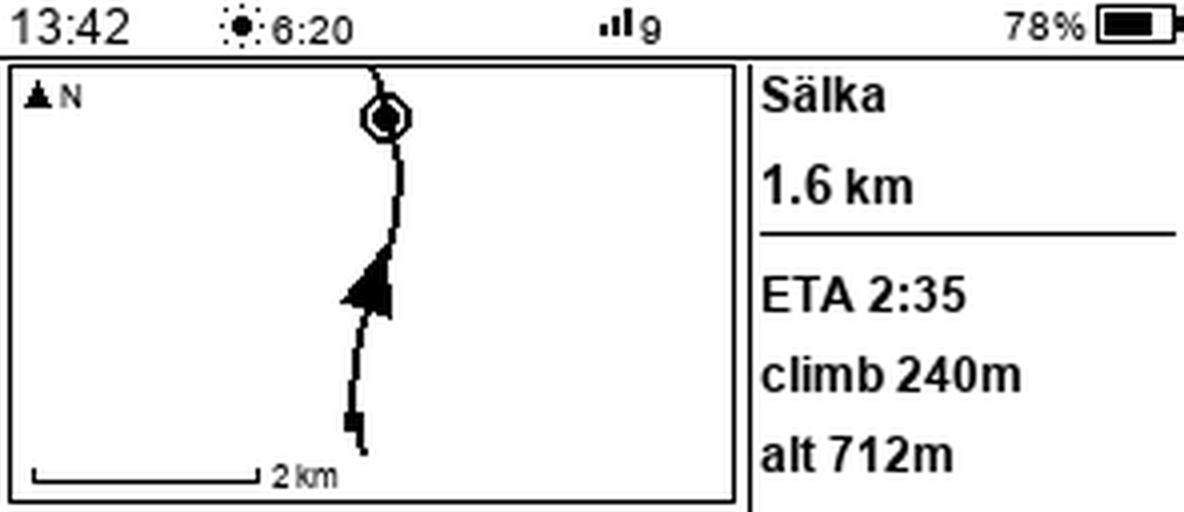
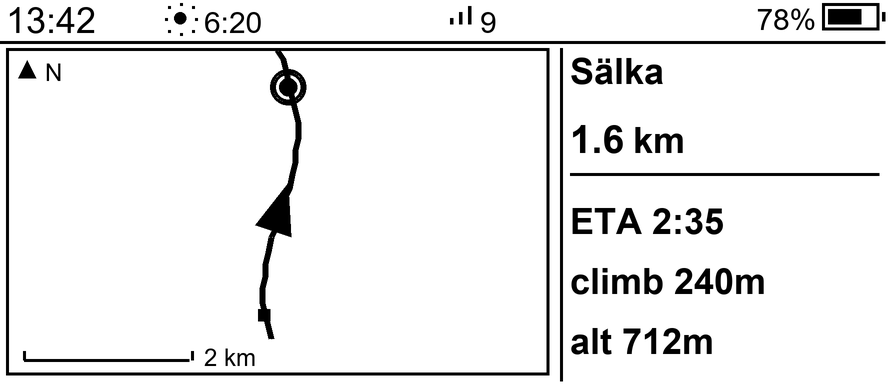
Supersample preview rendering for sharp text

Changed region(s): [[0.0, 0.0, 1.0, 1.0], [0.2736, 0.3125, 0.3649, 0.875], [0.3041, 0.875, 0.3345, 0.9062]]

diff --git a/tools/preview_display.py b/tools/preview_display.py
@@ -11,13 +11,13 @@ import os
 from PIL import Image, ImageDraw, ImageFont
 
 W, H = 296, 128
-SCALE = 4
+SS = 6        # supersample: render at SS x logical resolution, then save
 FD = r"C:\Windows\Fonts"
 BLACK, WHITE = 0, 255
 
 
 def font(name, size):
-    return ImageFont.truetype(os.path.join(FD, name), size)
+    return ImageFont.truetype(os.path.join(FD, name), size * SS)
 
 
 F_TINY = font("arial.ttf", 8)
@@ -29,45 +29,50 @@ F_HUGE = font("arialbd.ttf", 20)
 
 
 class Epd:
+    """Draws in logical 296x128 coordinates but rasterises at SS x resolution.
+    Every primitive scales its coordinates; strokes are SS px wide so a 1 px
+    logical line stays 1 logical px. width() reports logical units so the
+    layout math in the render_* functions needs no changes."""
+
     def __init__(self):
-        self.img = Image.new("L", (W, H), WHITE)
+        self.img = Image.new("L", (W * SS, H * SS), WHITE)
         self.d = ImageDraw.Draw(self.img)
 
     # --- GxEPD2-like primitives ---
     def line(self, x0, y0, x1, y1, c=BLACK):
-        self.d.line((x0, y0, x1, y1), fill=c)
+        self.d.line((x0 * SS, y0 * SS, x1 * SS, y1 * SS), fill=c, width=SS)
     def line2(self, x0, y0, x1, y1, c=BLACK):
-        self.d.line((x0, y0, x1, y1), fill=c)
+        self.line(x0, y0, x1, y1, c)
         if abs(x1 - x0) >= abs(y1 - y0):
-            self.d.line((x0, y0 + 1, x1, y1 + 1), fill=c)
+            self.line(x0, y0 + 1, x1, y1 + 1, c)
         else:
-            self.d.line((x0 + 1, y0, x1 + 1, y1), fill=c)
+            self.line(x0 + 1, y0, x1 + 1, y1, c)
     def hline(self, x, y, w, c=BLACK):
-        self.d.line((x, y, x + w - 1, y), fill=c)
+        self.d.line((x * SS, y * SS, (x + w - 1) * SS, y * SS), fill=c, width=SS)
     def rect(self, x, y, w, h, c=BLACK):
-        self.d.rectangle((x, y, x + w - 1, y + h - 1), outline=c)
+        self.d.rectangle((x * SS, y * SS, (x + w - 1) * SS, (y + h - 1) * SS), outline=c, width=SS)
     def fillrect(self, x, y, w, h, c=BLACK):
-        self.d.rectangle((x, y, x + w - 1, y + h - 1), fill=c)
+        self.d.rectangle((x * SS, y * SS, (x + w - 1) * SS, (y + h - 1) * SS), fill=c)
     def roundrect(self, x, y, w, h, r, c=BLACK):
-        self.d.rounded_rectangle((x, y, x + w - 1, y + h - 1), radius=r, fill=c)
+        self.d.rounded_rectangle((x * SS, y * SS, (x + w - 1) * SS, (y + h - 1) * SS), radius=r * SS, fill=c)
     def circle(self, cx, cy, r, c=BLACK):
-        self.d.ellipse((cx - r, cy - r, cx + r, cy + r), outline=c)
+        self.d.ellipse(((cx - r) * SS, (cy - r) * SS, (cx + r) * SS, (cy + r) * SS), outline=c, width=SS)
     def fillcircle(self, cx, cy, r, c=BLACK):
-        self.d.ellipse((cx - r, cy - r, cx + r, cy + r), fill=c)
+        self.d.ellipse(((cx - r) * SS, (cy - r) * SS, (cx + r) * SS, (cy + r) * SS), fill=c)
     def tri(self, x0, y0, x1, y1, x2, y2, c=BLACK):
-        self.d.polygon((x0, y0, x1, y1, x2, y2), fill=c)
+        self.d.polygon((x0 * SS, y0 * SS, x1 * SS, y1 * SS, x2 * SS, y2 * SS), fill=c)
     def pixel(self, x, y, c=BLACK):
-        self.d.point((x, y), fill=c)
+        self.d.rectangle((x * SS, y * SS, (x + 1) * SS - 1, (y + 1) * SS - 1), fill=c)
 
     # --- U8g2-like text (y = baseline) ---
     def text(self, x, y, s, fnt, inv=False):
-        self.d.text((x, y), s, font=fnt, fill=(WHITE if inv else BLACK), anchor="ls")
+        self.d.text((x * SS, y * SS), s, font=fnt, fill=(WHITE if inv else BLACK), anchor="ls")
     def width(self, s, fnt):
-        return self.d.textlength(s, font=fnt)
+        return self.d.textlength(s, font=fnt) / SS
     def textR(self, xr, y, s, fnt):
         self.text(xr - self.width(s, fnt), y, s, fnt)
     def textC(self, xc, y, s, fnt, inv=False):
-        self.d.text((xc, y), s, font=fnt, fill=(WHITE if inv else BLACK), anchor="ms")
+        self.d.text((xc * SS, y * SS), s, font=fnt, fill=(WHITE if inv else BLACK), anchor="ms")
 
 
 D2R = math.pi / 180
@@ -334,7 +339,7 @@ def render_map(e, vm):
 def save(e, name):
     out = os.path.join(os.path.dirname(__file__), "preview")
     os.makedirs(out, exist_ok=True)
-    big = e.img.resize((W * SCALE, H * SCALE), Image.LANCZOS)
+    big = e.img.resize((W * 3, H * 3), Image.LANCZOS)
     p = os.path.join(out, name + ".png")
     big.save(p)
     print("wrote", p)
